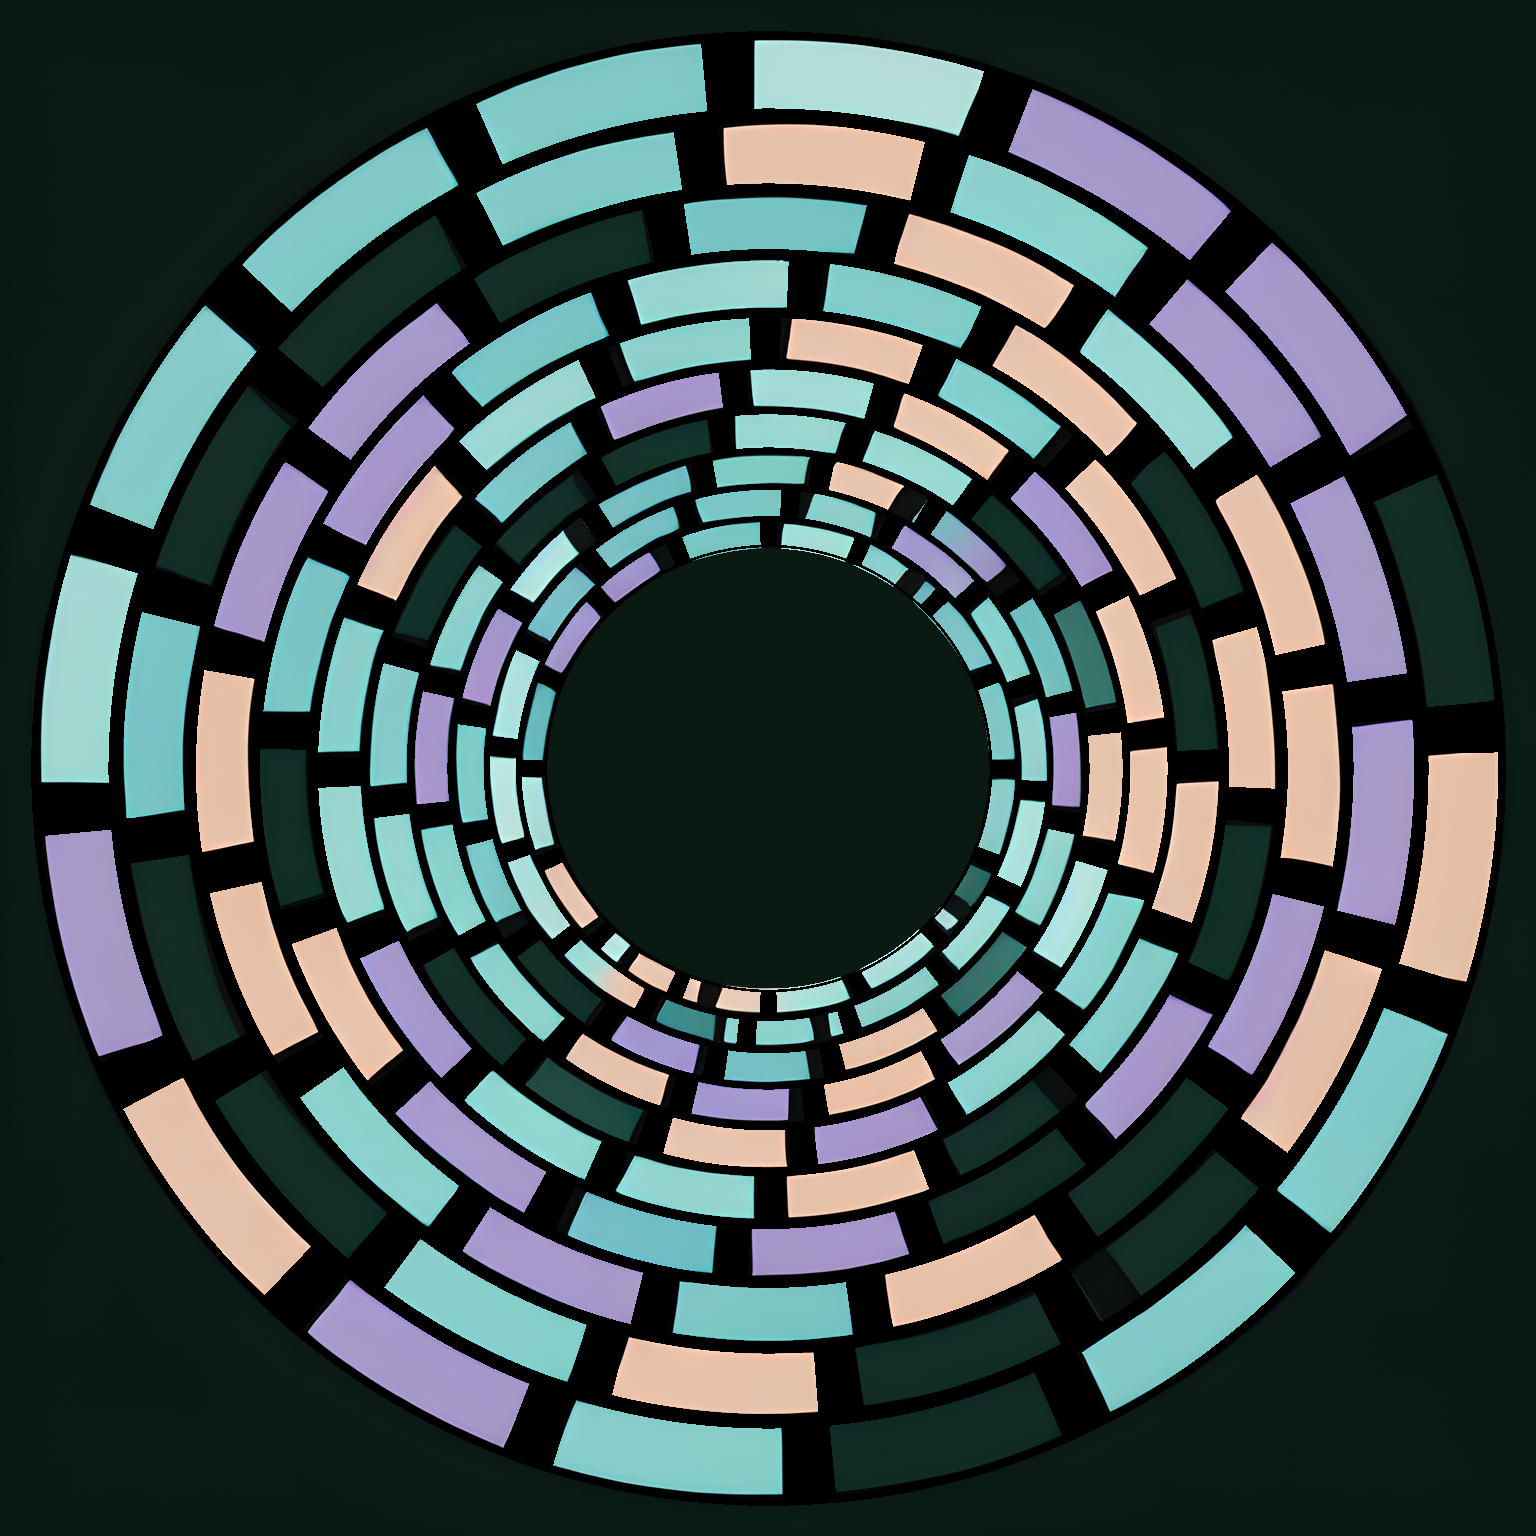
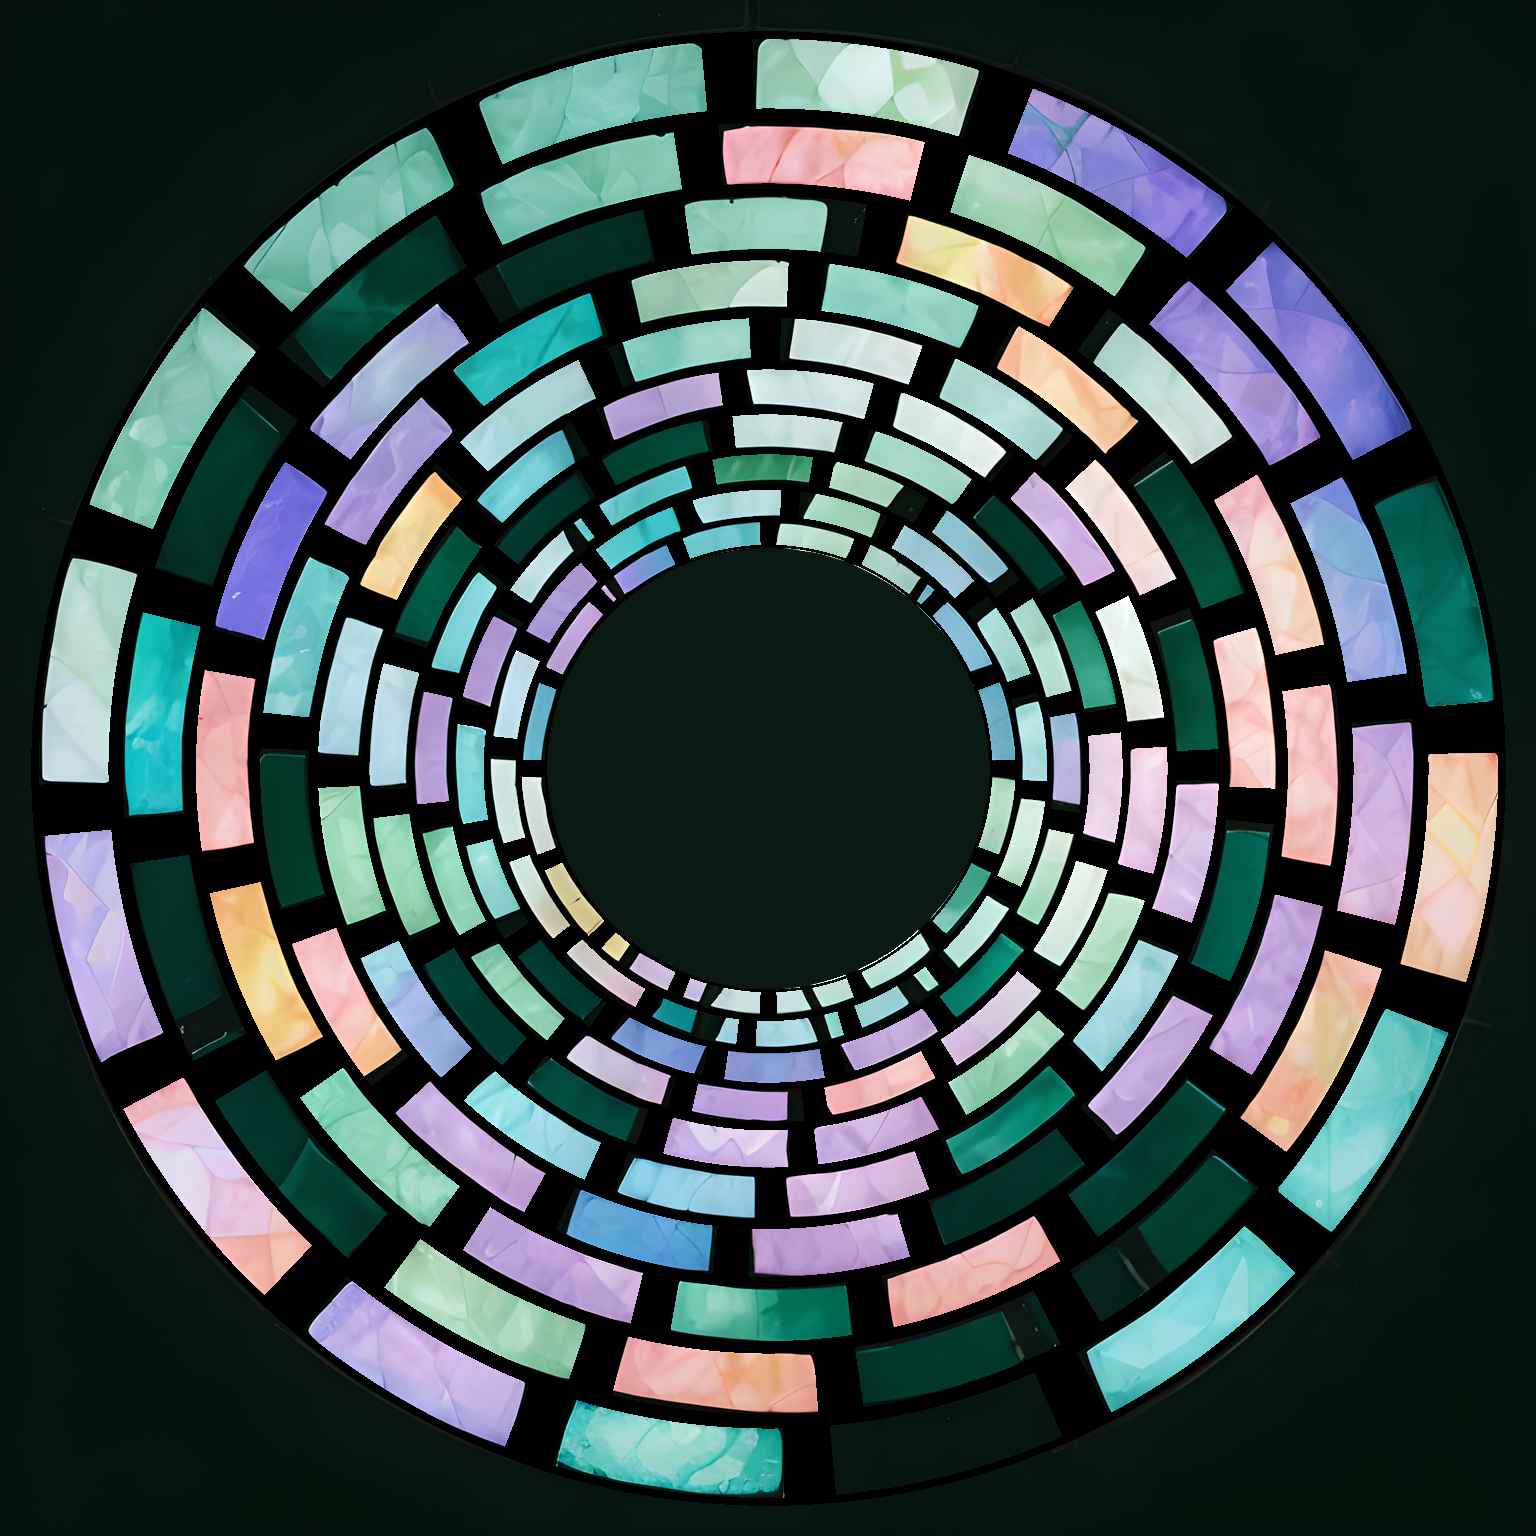
feat(cat2): zoom-fill fix, culled 16 textures, DreamShaper mosaic
Claude-Session: https://claude.ai/code/session_01YTRVJFZCpF1FSqUGPpXErY

diff --git a/cat2/index.html b/cat2/index.html
@@ -81,7 +81,7 @@
   <div class="row"><label>Sweep</label><input id="sweep" type="range" min="0" max="1" step="0.01" value="0.15"><span class="val" id="vsweep"></span></div>
   <div class="row"><label>Detail</label><input id="rings" type="range" min="2" max="12" step="0.5" value="5"><span class="val" id="vrings"></span></div>
   <div class="row"><label>Spin</label><input id="spin" type="range" min="-0.4" max="0.4" step="0.005" value="0"><span class="val" id="vspin"></span></div>
-  <div class="row"><label>Zoom</label><input id="zoom" type="range" min="0.4" max="2.2" step="0.01" value="1.00"><span class="val" id="vzoom"></span></div>
+  <div class="row"><label>Zoom</label><input id="zoom" type="range" min="1.1" max="2.6" step="0.01" value="1.2"><span class="val" id="vzoom"></span></div>
   <div class="row"><label>Cam dive</label><input id="dive" type="range" min="0" max="1.2" step="0.01" value="0"><span class="val" id="vdive"></span></div>
   <div class="grp">Cat (centre)</div>
   <div class="row"><label>Bob</label><input id="bob" type="range" min="0" max="1" step="0.02" value="0.4"><span class="val" id="vbob"></span></div>
@@ -103,7 +103,7 @@
    tile), pink lights pink / green lights green, dark tiles stay dark. Serve over http. No deps. */
 const cv=document.getElementById('stage');
 const gl=cv.getContext('webgl')||cv.getContext('experimental-webgl');
-const _set=(location.search.match(/[?&]set=(\w+)/)||[])[1] || 'glass';  // deployed: default glass
+const _set=(location.search.match(/[?&]set=(\w+)/)||[])[1] || 'glass';
 const BASE="assets/spiral/"+(_set==='glass'?'generated_glass':'generated')+"/";  // ?set=glass
 const TAU=Math.PI*2, LUT_W=256;
 const $=id=>document.getElementById(id);
@@ -111,7 +111,7 @@ function fail(m){ const e=$('err'); e.style.display='grid'; e.innerHTML=m; }
 if(!gl) fail('WebGL not available.');
 if(location.protocol==='file:') fail('Open over <b>http</b>, not file://.<br>Run <code>python -m http.server 8000</code> then <code>http://localhost:8000/spiral-tiles.html</code>.');
 
-const cfg={ len:14, reach:95, bias:85, ebbper:8, glow:1.5, ambient:0.16, spin:0, zoom:1.00, dive:0, cov:1, grain:0.35,
+const cfg={ len:14, reach:95, bias:85, ebbper:8, glow:1.5, ambient:0.16, spin:0, zoom:1.2, dive:0, cov:1, grain:0.35,
             bob:0.4, catspin:0.12, suck:0, beams:1, sweep:0.15, rings:5 };
 const S={ running:true, last:performance.now(), t:0, dir:1, hud:false, ready:false, auto:false, catrot:0, beamZ:0, btexOn:false, gtexOn:false, snakeOn:true, radarOn:false, grainOn:true,
           tiles:null, ord:null, isDark:null, maxOrd:1, lut:new Uint8Array(LUT_W*4) };
@@ -126,11 +126,11 @@ float hash21(vec2 p){ p=fract(p*vec2(123.34,456.21)); p+=dot(p,p+45.32); return 
 void main(){
   vec2 p=(gl_FragCoord.xy-0.5*u_res)/min(u_res.x,u_res.y);
   float sp=u_spin*u_spinT; float cs=cos(sp),sn=sin(sp); p=mat2(cs,-sn,sn,cs)*p;
-  float zoom=u_zoom*pow(2.0, u_dive*u_ebb*0.5);
+  float zoom=max(u_zoom*pow(2.0, u_dive*u_ebb*0.5), 1.12);   // floor: never zoom out past mosaic fill (kills the square)
   vec2 uv=p/max(zoom,0.05)+0.5;
-  if(uv.x<0.0||uv.x>1.0||uv.y<0.0||uv.y>1.0){ gl_FragColor=vec4(0.024,0.066,0.047,1.0); return; }
-  vec3 base=texture2D(u_flat, uv).rgb;
-  vec4 idc=texture2D(u_id, uv);
+  vec2 cuv=clamp(uv,0.0,1.0);                                // sample clamped -> corners = bg, no hard square edge
+  vec3 base=texture2D(u_flat, cuv).rgb;
+  vec4 idc=texture2D(u_id, cuv);
   float bright=0.0;
   if(idc.b>0.19){                                   // not the white 'none' sentinel
     float id=floor(idc.r*255.0+0.5)+floor(idc.g*255.0+0.5)*256.0;
